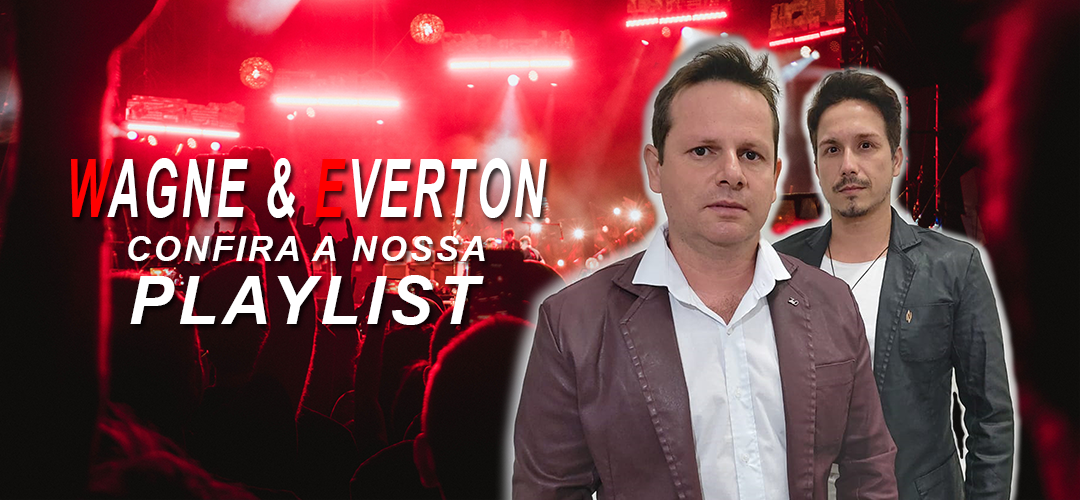
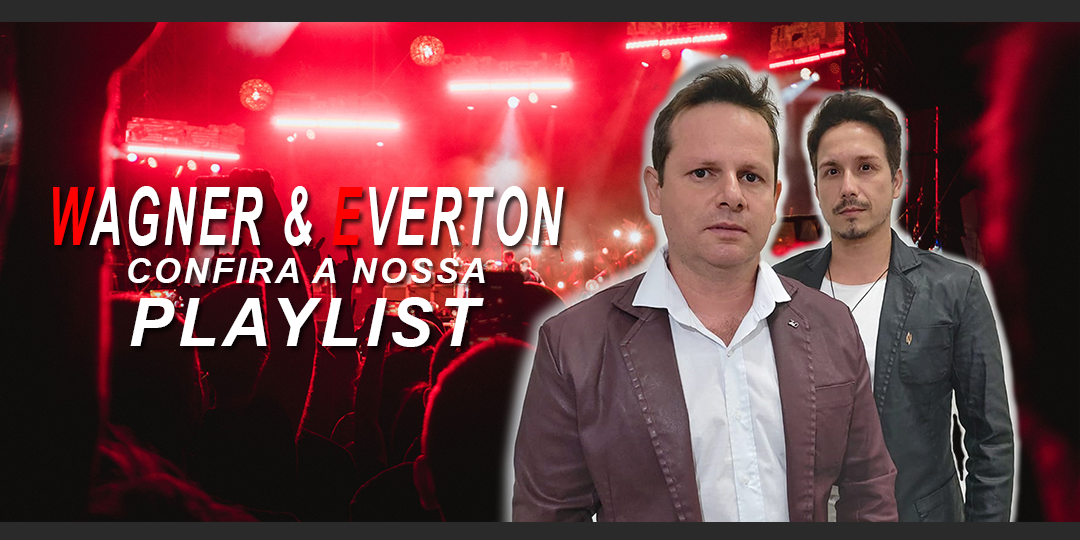
atualizando capa fb

diff --git a/index.html b/index.html
@@ -3,7 +3,7 @@
 <head>
     <meta charset="UTF-8">
     <meta name="viewport" content="width=device-width, initial-scale=1.0">
-    <meta property="og:image" content="assets/images/capa_teste.png" />
+    <meta property="og:image" content="assets/images/capa_site.png" />
 
     <link href="https://fonts.googleapis.com/css2?family=Open+Sans:ital,wght@1,600&family=Roboto&display=swap" rel="stylesheet">
     <link rel="stylesheet" href="assets/icons/styles.css">
